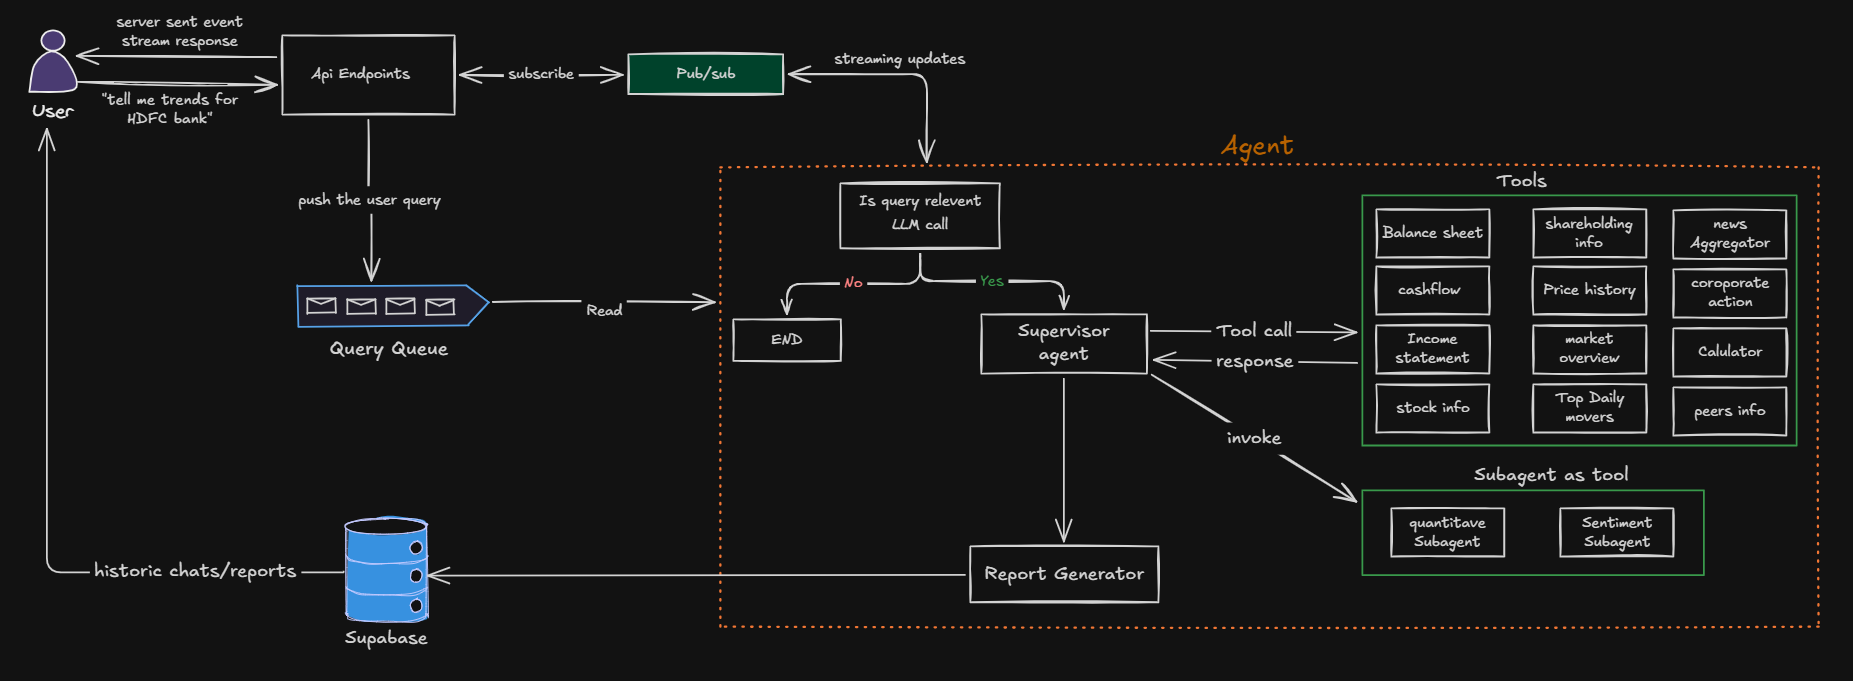
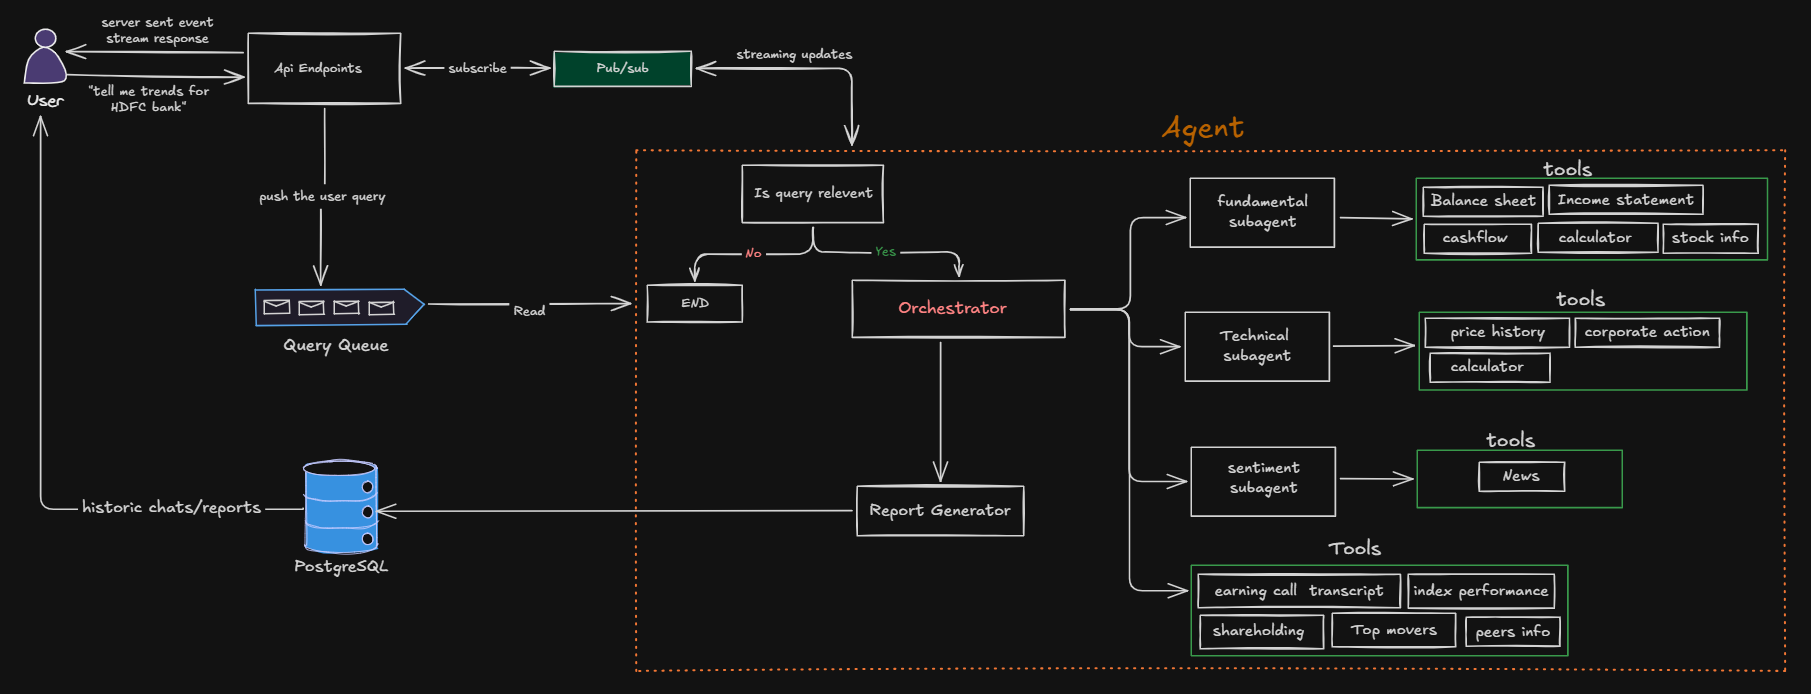
feat: update readme and add new architecture details

diff --git a/backend/src/agent/utils/prompt.ts b/backend/src/agent/utils/prompt.ts
@@ -177,7 +177,7 @@ export const finalSummaryDetailedPrompt = new SystemMessage(`
 # OUTPUT STRUCTURE
 - You must structure your response using clear Markdown formatting. 
 - Response must follow logic flow to ensure redability.
-- Do not return full huge numerical price, give price in crore and ensure conversion is correct (e.g. "43,757,500,000" will be "4,375.75 crore". where 1 crore = 10,000,000)
+- If numerical digit is large then convert it to  million and ensure conversion is correct (e.g. "43,757,500,000" will be "43,757.5 million")
 - Adapt the length to the depth of the data, but target a highly detailed, multi-paragraph analysis.
 
 # WHEN DATA IS INSUFFICIENT
@@ -232,9 +232,10 @@ Your task is to gather the relevent data for given "task" by calling right tool 
 
 # Analysis
   - Analyze the the input task and tools available.
-  - Create a plan and order in which tools needs to be called
+  - Create a plan and order in which tools needs to be called.
   - Observe and analyze the tool response and match it with user query. if tool message is sufficient as per the user query then return the tool messages.
-  - If input task ask for financial metric which is missing from tool message but raw data to calculate that metric is available then use calculator tool which right formula.
+  - If input task ask for financial metric which is missing from tool message but raw data to calculate that metric is available then use calculator tool which correct formula.
+  - Think before invoking the tool (what input value to pass, objective of tool call etc)
 
 STOP CONDITION
    - You have a hard budget of at most 15 tool calls total for this invocation, across all requested metrics.

diff --git a/backend/src/agent/evals/evaluators.ts b/backend/src/agent/evals/evaluators.ts
@@ -1,6 +1,6 @@
 import { LLMTestCase, SingleTurnParams } from "deepeval/test-case";
 import { GEval, TaskCompletionMetric } from "deepeval/metrics";
-import { dataset } from "./dataset/golden";
+import { dataset } from "./golden";
 import { startAgent } from "../agent";
 import { evaluate } from "deepeval";
 
@@ -19,7 +19,7 @@ const correctnessMetric = new GEval({
   evaluationSteps: [
     "Identify the specific figure(s), ratio(s), or fact(s) the question is actually asking for.",
     "Extract the corresponding figure(s) from 'actual output' and compare them to 'expected output' by VALUE, not by formatting. Treat different units, scales, or notations that represent the same value as equivalent.",
-    "Numeric answers within about 2% of the expected value count as correct (minor rounding, differing source periods, or presentation differences). Numeric answers off by more than roughly 5% count as incorrect, regardless of how confident or detailed the response sounds.",
+    "Numeric answers within about 3% of the expected value count as correct.",
     "Do not penalize the response for including extra correct, relevant supporting detail that is not present in 'expected output'.",
     "If the question has multiple parts (e.g. two companies, two metrics), score proportionally to the fraction of parts answered correctly instead of failing the whole answer for one wrong or missing part.",
   ],
@@ -34,7 +34,7 @@ const correctnessMetric = new GEval({
 });
 
 const taskCompletion = new TaskCompletionMetric({
-  threshold: 0.8,
+  threshold: 0.7,
   model: judge,
 });
 function sleep(ms: number) {

diff --git a/backend/src/agent/evals/golden.ts b/backend/src/agent/evals/golden.ts
@@ -3,7 +3,7 @@ export const dataset = [
     id: "001",
     query:
       "What gross margin did Arvind Fashions achieve in FY25 at consolidated level?",
-    answer: "0.535",
+    answer: "0.50",
   },
   {
     id: "002",
@@ -105,7 +105,7 @@ export const dataset = [
   {
     id: "016",
     query:
-      "For Castrol India and Gulf Oil Lubricants on a consolidated basis, how did inventories of finished goods change between FY23 and FY24?",
+      "For Castrol India and Gulf Oil Lubricants on a consolidated basis, how did inventories of finished goods change between FY24 and FY25?",
     answer:
       "For Castrol India Ltd : FY24 = ₹145.71 Cr → FY25 = ₹160.30 Cr, change ₹14.59 Cr (10.01%); for Gulf Oil Lubricants India : Ltd FY24 = ₹237.85 Cr → FY25 = ₹246.18 Cr, change ₹8.33 Cr (3.50%)",
   },
@@ -131,6 +131,6 @@ export const dataset = [
   {
     id: "020",
     query: "what is 3-year Revenue CAGR of Bharati airtel",
-    answer: "Bharti Airtel's 3-year Revenue CAGR is 15.24% for FY2026",
+    answer: "Bharti Airtel's 3-year Revenue CAGR is 15.24% for FY26",
   },
 ];

diff --git a/backend/src/agent/core/query.node.ts b/backend/src/agent/core/query.node.ts
@@ -1,12 +1,9 @@
-import { ChatGroq } from "@langchain/groq";
 import { createAgent, HumanMessage } from "langchain";
 import { symbolTool } from "../tools/tools.registry";
-import { queryAnalyzerSystemPrompt } from "../prompts/prompt";
+import { queryAnalyzerSystemPrompt } from "../utils/prompt";
 import type { AppStateType } from "../agent";
 import { z } from "zod";
-import { ChatGoogleGenerativeAI } from "@langchain/google-genai";
-import { sumTokensFromMessages } from "../tokenUsage";
-import { ChatMistralAI } from "@langchain/mistralai";
+import { calculateTokenUsage } from "../utils/tokenUsage";
 import { ChatOpenAI } from "@langchain/openai";
 
 const Answer = z.object({
@@ -55,7 +52,7 @@ export async function queryAnalyzerSubagent(state: AppStateType) {
 
     const response = await subagent.invoke({ messages: messages });
 
-    const tokenUsed = sumTokensFromMessages(response.messages);
+    const tokenUsed = calculateTokenUsage(response.messages);
     // console.log("token used in query-node are ", tokenUsed);
 
     if (response.structuredResponse.relevent) {

diff --git a/backend/src/agent/subagents/sentiment.subagent.ts b/backend/src/agent/subagents/sentiment.subagent.ts
@@ -1,8 +1,8 @@
 import { createAgent, HumanMessage } from "langchain";
 import { newsAggregatorTool } from "../tools/tools.registry";
-import { sentimentExpertPrompt } from "../prompts/prompt";
+import { sentimentExpertPrompt } from "../utils/prompt";
 import { ChatMistralAI } from "@langchain/mistralai";
-import { sumTokensFromMessages } from "../tokenUsage";
+import { calculateTokenUsage } from "../utils/tokenUsage";
 
 // const model = new ChatGroq({
 //   model: "llama-3.3-70b-versatile",
@@ -29,7 +29,7 @@ export async function sentimentSubagent(query: string) {
     ];
     const response = await subagent.invoke({ messages }, { recursionLimit: 5 });
 
-    const tokenUsed = sumTokensFromMessages(response.messages);
+    const tokenUsed = calculateTokenUsage(response.messages);
     // console.log("token used in sentimental subagent are ", tokenUsed);
 
     // console.log("response message is ", response.messages.at(-1)?.text);

diff --git a/backend/src/agent/core/orchestrator.node.ts b/backend/src/agent/core/orchestrator.node.ts
@@ -1,10 +1,8 @@
 import { createAgent, AIMessage, HumanMessage, ToolMessage } from "langchain";
-import { ChatOpenAI } from "@langchain/openai";
 import { tools, type AppStateType } from "../agent";
 import { ChatMistralAI } from "@langchain/mistralai";
-import { ChatGoogleGenerativeAI } from "@langchain/google-genai";
-import { orchestratorSystemPrompt } from "../prompts/prompt";
-import { sumTokensFromMessages } from "../tokenUsage";
+import { orchestratorSystemPrompt } from "../utils/prompt";
+import { calculateTokenUsage } from "../utils/tokenUsage";
 
 const model = new ChatMistralAI({
   model: "mistral-medium-2508",
@@ -67,7 +65,7 @@ export async function orchestrator(state: AppStateType) {
         } catch {}
       }
     }
-    const tokenUsed = sumTokensFromMessages(result.messages);
+    const tokenUsed = calculateTokenUsage(result.messages);
 
     // console.log("token used in orchestrator are ", tokenUsed);
 

diff --git a/backend/src/agent/subagents/fundamental.subagent.ts b/backend/src/agent/subagents/fundamental.subagent.ts
@@ -7,8 +7,8 @@ import {
 } from "../tools/tools.registry";
 import { createAgent, HumanMessage, ToolMessage } from "langchain";
 import { ChatGoogleGenerativeAI } from "@langchain/google-genai";
-import { fundamentalSubagentPrompt } from "../prompts/prompt";
-import { sumTokensFromMessages } from "../tokenUsage";
+import { fundamentalSubagentPrompt } from "../utils/prompt";
+import { calculateTokenUsage } from "../utils/tokenUsage";
 
 const model = new ChatGoogleGenerativeAI({
   model: "gemini-3.5-flash-lite",
@@ -51,7 +51,7 @@ export async function fundamentalSubagent(
       { recursionLimit: 15 },
     );
 
-    const tokenUsed = sumTokensFromMessages(response.messages);
+    const tokenUsed = calculateTokenUsage(response.messages);
     // console.log("token used in fundamental subagent are ", tokenUsed);
 
     const toolres = [];

diff --git a/backend/src/agent/subagents/technical.subagent.ts b/backend/src/agent/subagents/technical.subagent.ts
@@ -5,8 +5,8 @@ import {
 } from "../tools/tools.registry";
 import { createAgent, HumanMessage, ToolMessage } from "langchain";
 import { ChatGoogleGenerativeAI } from "@langchain/google-genai";
-import { technicalSubagentPrompt } from "../prompts/prompt";
-import { sumTokensFromMessages } from "../tokenUsage";
+import { technicalSubagentPrompt } from "../utils/prompt";
+import { calculateTokenUsage } from "../utils/tokenUsage";
 
 const model = new ChatGoogleGenerativeAI({
   model: "gemini-3.1-flash-lite",
@@ -40,7 +40,7 @@ export async function technicalSubagent(
       { recursionLimit: 8 },
     );
 
-    const tokenUsed = sumTokensFromMessages(response.messages);
+    const tokenUsed = calculateTokenUsage(response.messages);
     // console.log("token used in technical subagent are ", tokenUsed);
 
     const toolres = [];

diff --git a/backend/src/agent/core/report-generator.node.ts b/backend/src/agent/core/report-generator.node.ts
@@ -4,14 +4,13 @@ import {
   finalSummaryBriefPrompt,
   finalSummaryDetailedPrompt,
   finalSummaryMarketOverviewPrompt,
-} from "../prompts/prompt";
+} from "../utils/prompt";
 import {
   AIMessage,
   AIMessageChunk,
   HumanMessage,
   ToolMessage,
 } from "langchain";
-import { ChatMistralAI } from "@langchain/mistralai";
 // mistral - large - 2512;
 const model = new ChatGoogleGenerativeAI({
   model: "gemini-3.5-flash-lite",

diff --git a/backend/src/agent/utils/tokenUsage.ts b/backend/src/agent/utils/tokenUsage.ts
@@ -1,6 +1,6 @@
 import { AIMessage } from "langchain";
 
-export function sumTokensFromMessages(messages: any[]): number {
+export function calculateTokenUsage(messages: any[]): number {
   return messages.reduce((total, msg) => {
     if (msg instanceof AIMessage && msg.usage_metadata?.total_tokens) {
       return total + msg.usage_metadata.total_tokens;

diff --git a/backend/src/agent/tools/tools.registry.ts b/backend/src/agent/tools/tools.registry.ts
@@ -446,7 +446,7 @@ export const calculatorTool = tool(
       config.writer?.({
         status: `Calculating...`,
       });
-      const data = await calculator(expression);
+      const data = calculator(expression);
       return JSON.stringify(data);
     } catch (error) {
       console.log("error in calculator tool ", error);

diff --git a/backend/src/agent/agent.ts b/backend/src/agent/agent.ts
@@ -125,7 +125,7 @@ export async function startAgent(
       userId,
       queryType,
       finalResponse: lastState?.finalResponse || finalText || "",
-      tokenUsed: lastState?.totalTokenUsed || 0,
+      totalTokenUsed: lastState?.totalTokenUsed || 0,
       toolsUsed: lastState?.toolsUsed ?? [],
     };
   } catch (error) {
